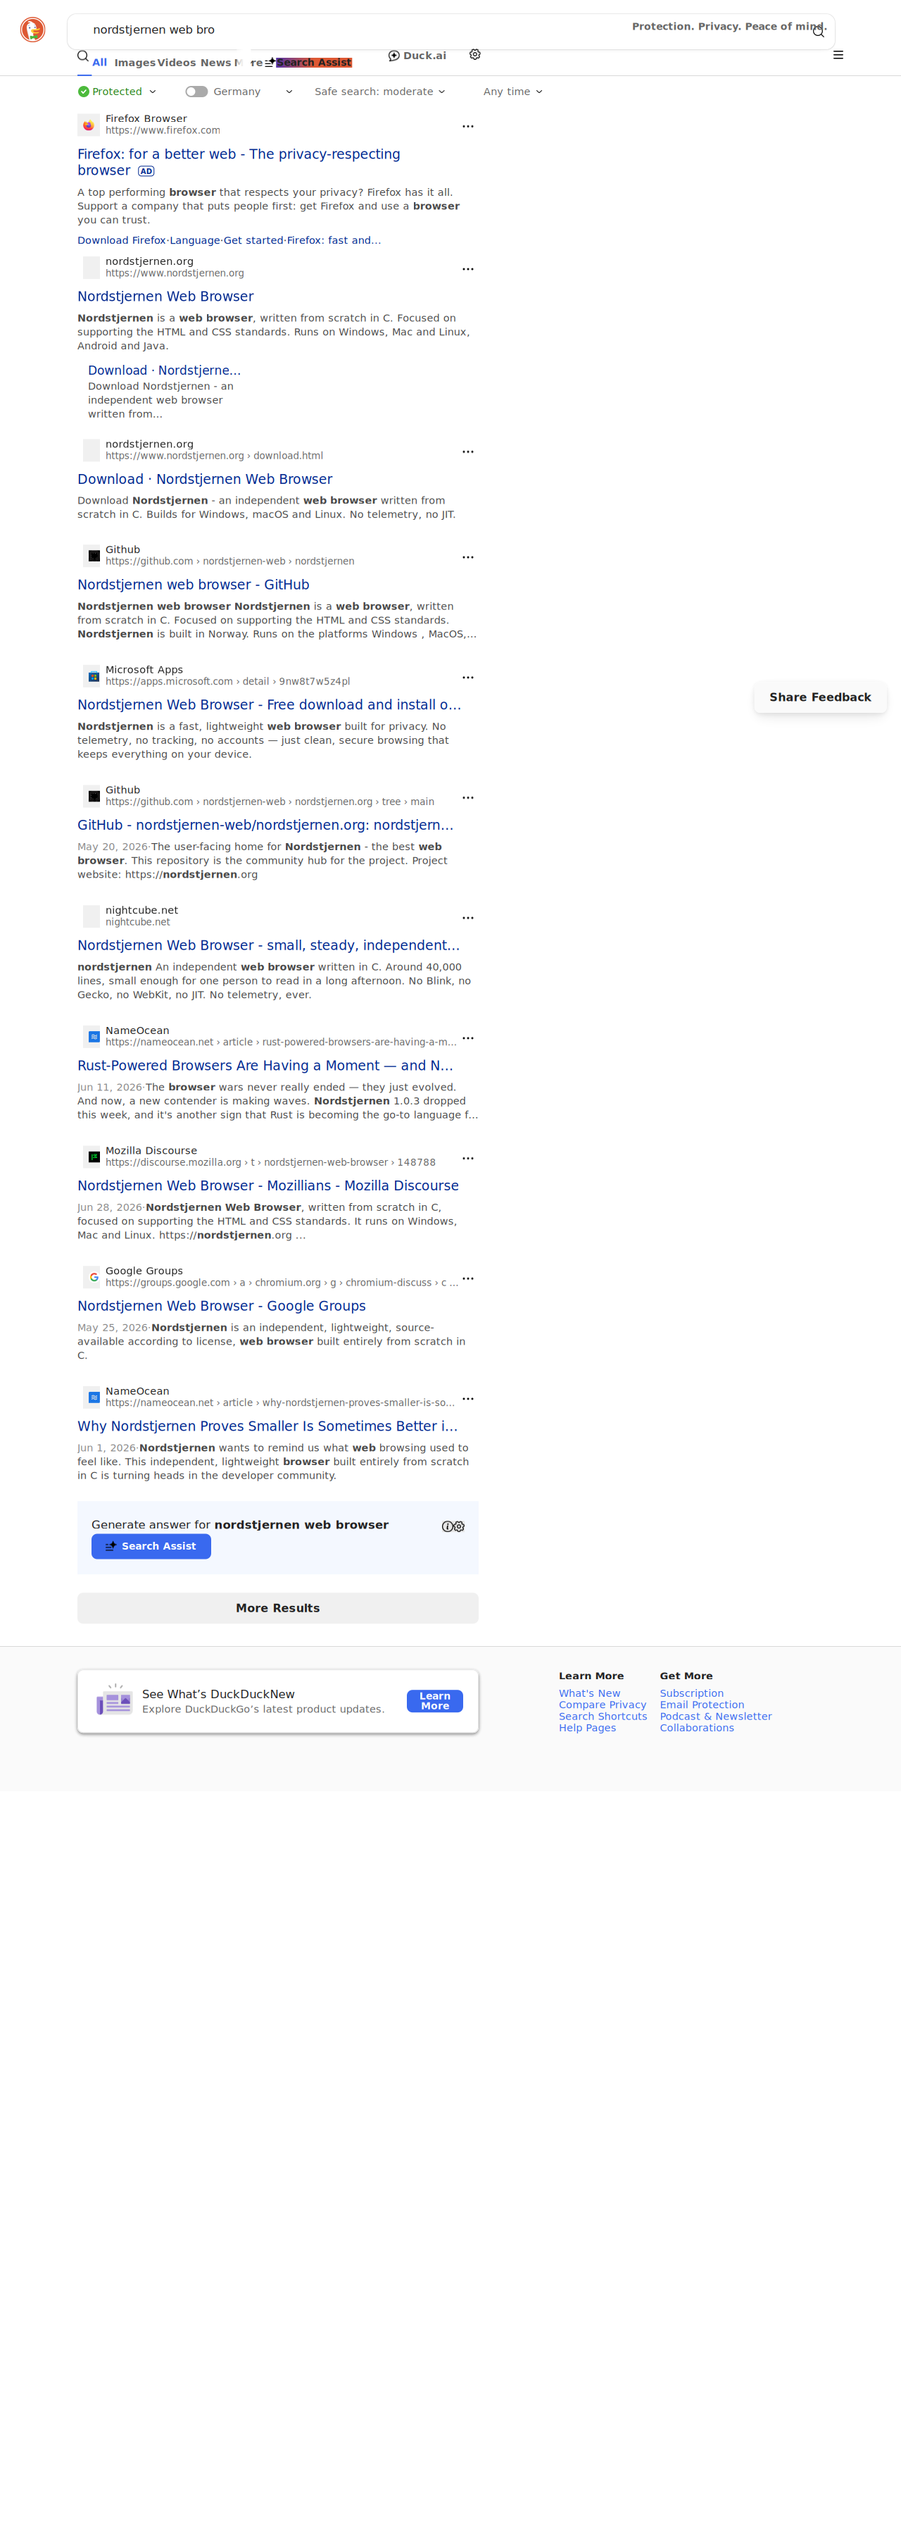
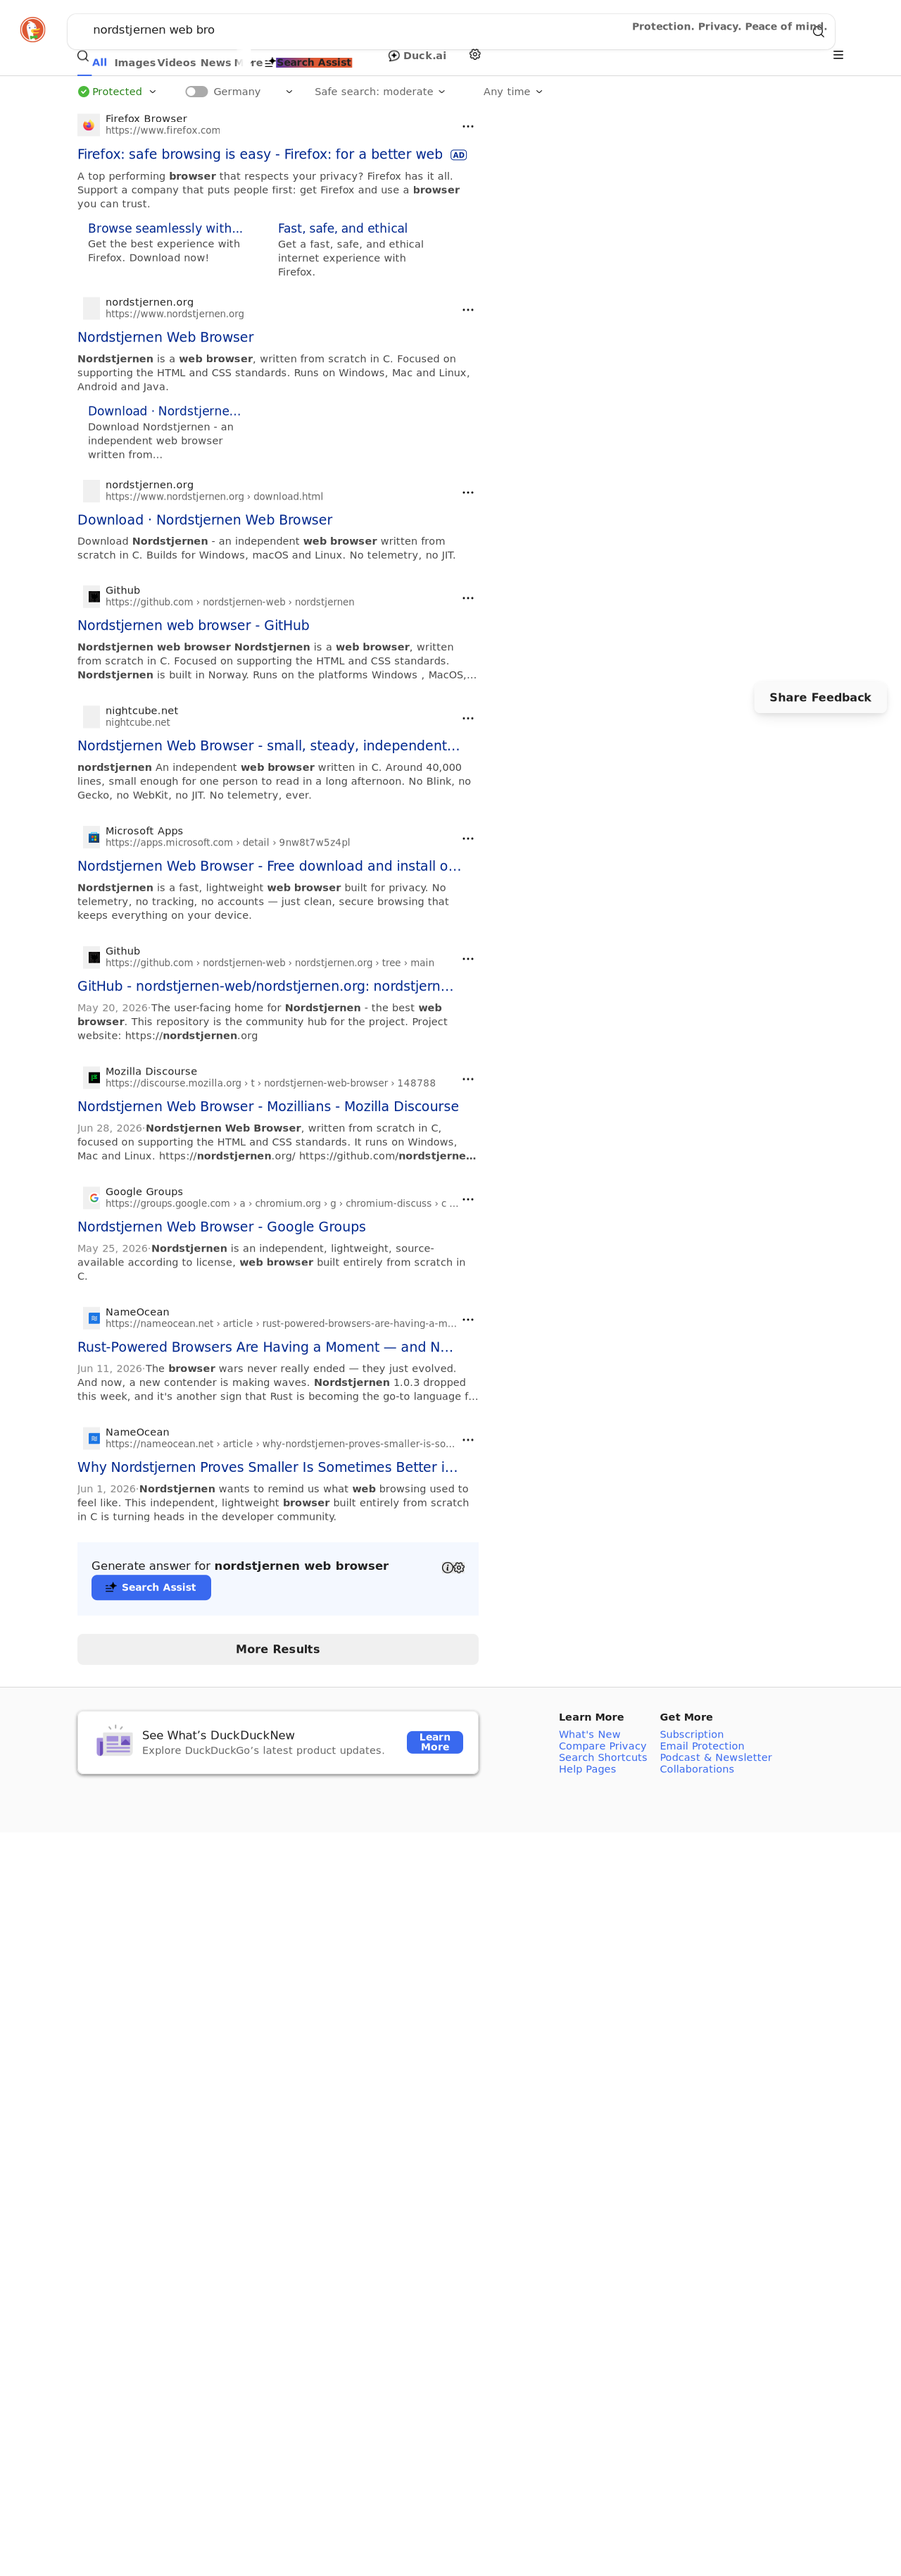
paint: render text with grayscale antialiasing instead of LCD subpixel
The shared Pango context inherited the system fontconfig LCD-subpixel
setting, so glyphs on the image surface came out with colored ClearType
fringes (dark text sampled as saturated blue/brown/yellow edge pixels).
That is wrong for a surface that gets composited, scaled, and transformed
through the GSK/GL path and has no guaranteed physical subpixel layout.
Force CAIRO_ANTIALIAS_GRAY (subpixel order DEFAULT) on the paint
context's font options so text edges are neutral grays.

Refreshes the search-results screenshot with the crisper text.

diff --git a/src/paint.c b/src/paint.c
@@ -47,6 +47,14 @@ paint_create_layout(void)
     if (!cached_ctx) {
         PangoFontMap *fm = pango_cairo_font_map_get_default();
         cached_ctx = pango_font_map_create_context(fm);
+        cairo_font_options_t *fo = cairo_font_options_create();
+        const cairo_font_options_t *base =
+            pango_cairo_context_get_font_options(cached_ctx);
+        if (base) cairo_font_options_merge(fo, base);
+        cairo_font_options_set_antialias(fo, CAIRO_ANTIALIAS_GRAY);
+        cairo_font_options_set_subpixel_order(fo, CAIRO_SUBPIXEL_ORDER_DEFAULT);
+        pango_cairo_context_set_font_options(cached_ctx, fo);
+        cairo_font_options_destroy(fo);
     }
     return pango_layout_new(cached_ctx);
 }
